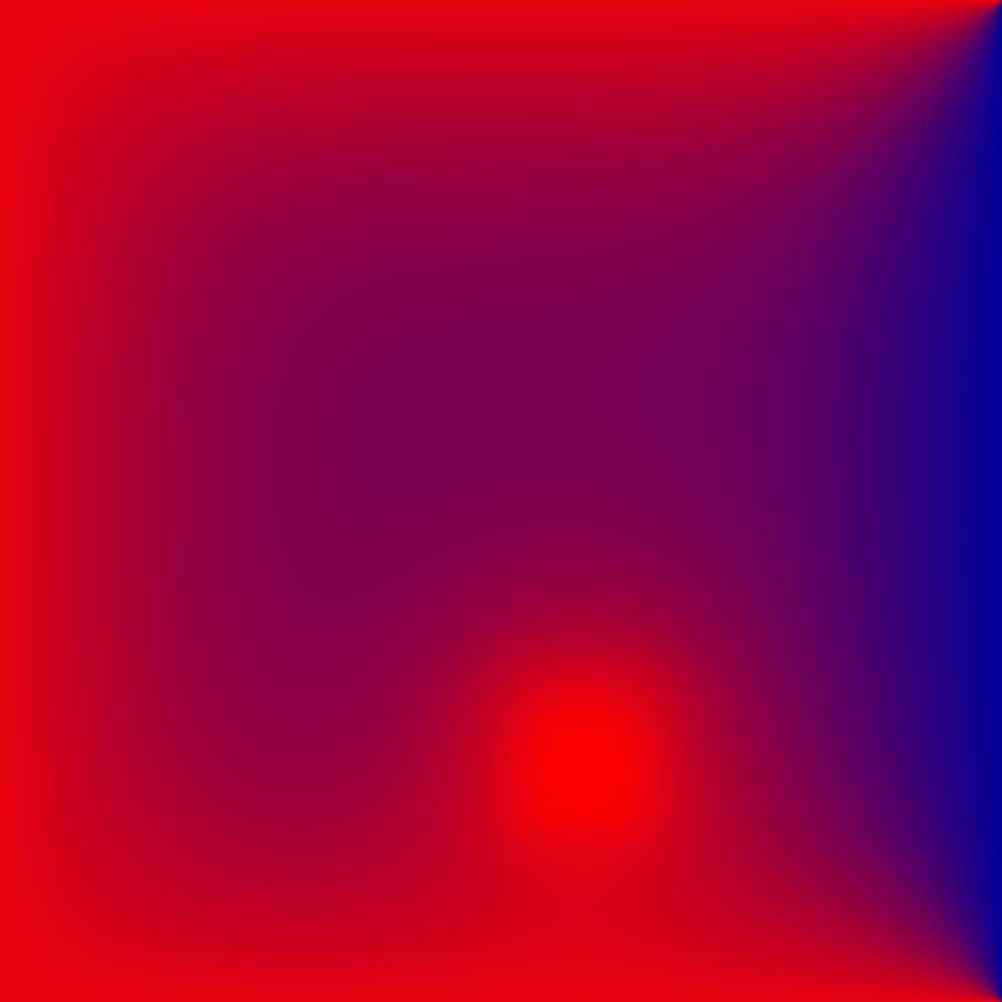
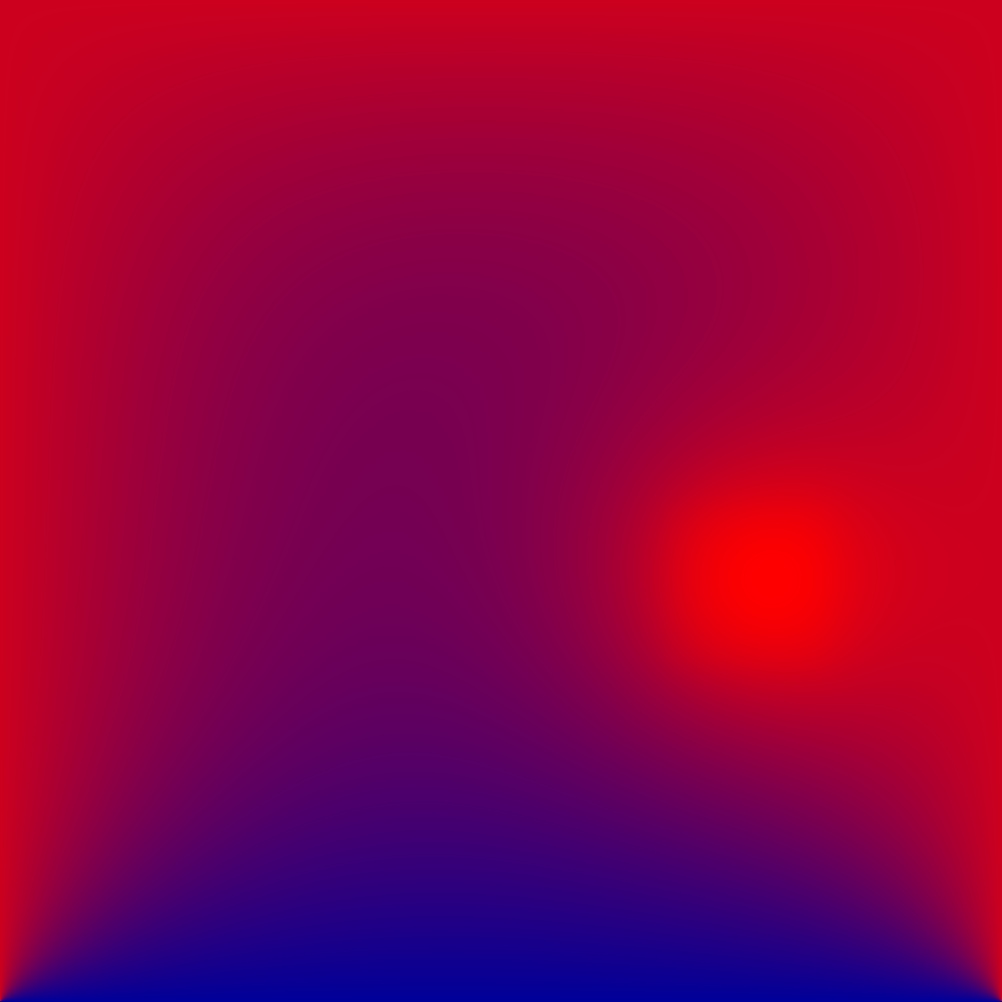
All versions of the Jacobi and Gauss-Seidel methods are working.

diff --git a/poisson_lab/poisson.c b/poisson_lab/poisson.c
@@ -12,7 +12,7 @@ double f(int i, int j, int n, double delta) {
 	double x = (i - n2) * delta;
 	double y = (j - n2) * delta;
 	if ( (x >= 0.0) && (x <= 1.0/3.0) && (y >= -2.0/3.0) && (y <= -1.0/3.0))
-		return 500.0;
+		return 200.0;
 	return 0.0;
 }
 
@@ -80,17 +80,17 @@ void gauss(double* img,double *img_old, int N, int max_iter){
     for(int k = 0; k < max_iter; k++){
 		for(int i = 1; i <= N; i++){
 			for(int j = 1; j <= N; j++){
-/*				img[i*(N+2)+j] = 0.25*(   img[(i-1)*(N+2)+ j   ] \
+				img[i*(N+2)+j] = 0.25*(   img[(i-1)*(N+2)+ j   ] \
 										+ img[(i+1)*(N+2)+ j   ] \
 										+ img[ i   *(N+2)+(j-1)] \
 										+ img[ i   *(N+2)+(j+1)] \
-										+ delat2*f( i, j, N+2, delta ));
-*/
-				img[i*(N+2)+j] = 0.25*(   img[(i-1)*(N+2)+ j   ] \
+										+ delta2*f( i, j, N+2, delta ));
+
+/*				img[i*(N+2)+j] = 0.25*(   img[(i-1)*(N+2)+ j   ] \
 										+ img_old[(i+1)*(N+2)+ j   ] \
 										+ img[ i   *(N+2)+(j-1)] \
 										+ img_old[ i   *(N+2)+(j+1)] \
-										+ delta2*f( i, j, N+2, delta ));
+										+ delta2*f( i, j, N+2, delta ));*/
 				//printf("%.1f ",f(i,j,N+2,delta)*delta2);
 			}
 			//printf("\n");
@@ -136,18 +136,21 @@ void jacobi_mp(double *grid, double *grid_old, int n, int kmax) {
 	return;
 }
 
-inline void do_work(double* img, int delta2, int delta, int N, int i) {
+inline void do_work(double* img, double delta2, double delta, int N, int i) {
     for(int j = 1; j <= N; j++){
 //        img[i*(N+2)+j] = 0.25*(       img[(i-1)*(N+2)+ j ]
   //                                    + img_old[(i+1)*(N+2)+ j ]
     //                                  +     img[ i   *(N+2)+(j-1)]          
       //                                + img_old[ i   *(N+2)+(j+1)]          
         //                              + delta2*f( i, j, N+2, delta ));
+		double fij = f(i,j,N+2,delta);
     		img[i*(N+2)+j] = 0.25*(   img[(i-1)*(N+2)+ j   ]        \
                 + img[(i+1)*(N+2)+ j   ]                                \
                 + img[ i   *(N+2)+(j-1)]                                \
                 + img[ i   *(N+2)+(j+1)]                                \
-                + delta2*f( i, j, N+2, delta ));
+                + delta2*fij);
+		//if(fij>0.0){printf("f: %.1f\n",fij);}
+		//else if(delta == 0.0){printf("delta: %f\n",delta);}
 	}
 }
 
@@ -156,12 +159,14 @@ void gauss_mp(double* img, int N, int max_iter){
 	double delta2 = pow(delta,2);
     int* start;
     int* finish;
-    int grid_size = 0;
+    //int grid_size = 0;
+//printf("%f\n",delta);
+//	getchar();
     
     // TODO Check for corner cases with regards to flags
     // TODO Make threads ordered (or think of other crazy solution)
     
-#pragma omp parallel shared(start, finish, delta, delta2)
+#pragma omp parallel shared(start, finish, delta, delta2,img,N,max_iter)
     {
         
 #pragma omp single
@@ -187,37 +192,37 @@ void gauss_mp(double* img, int N, int max_iter){
         
         for(int k = 1; k <= max_iter; k++){
 
-            printf("%i waiting for first guard on %i'th iteration finish[%i] \n", thread_id, k, finish[thread_id-1]);
+            //printf("%i waiting for first guard on %i'th iteration finish[%i] \n", thread_id, k, finish[thread_id-1]);
             while(finish[thread_id - 1] < k) { // Guard 1
                 #pragma omp flush(finish)
             }
-            printf("%i passed first guard on %i'th iteration\n", thread_id, k);
+            //printf("%i passed first guard on %i'th iteration\n", thread_id, k);
 
 
 #pragma omp for schedule(static) nowait
             for(int i = 1; i <= N; i++) {
 
                 if(i == i_lower) {
-                    do_work(img, delta, delta2, N, i); // TODO Check if this is inlined
+                    do_work(img, delta2, delta, N, i); // TODO Check if this is inlined
                     start[thread_id] = k;
                     #pragma omp flush(start)
                 }
 
                 else if(i == i_upper) {
 
-                    printf("%i waiting on second guard on %i'th iteration start[%i] \n", thread_id, k, start[thread_id+1]);
+                   // printf("%i waiting on second guard on %i'th iteration start[%i] \n", thread_id, k, start[thread_id+1]);
                     while(start[thread_id + 1] < k-1) { // Guard 2
                      #pragma omp flush(start)
                     }
-                    printf("%i passed second guard on %i'th iteration\n", thread_id, k);
+                    //printf("%i passed second guard on %i'th iteration\n", thread_id, k);
 
-                    do_work(img, delta, delta2 ,N, i);
+                    do_work(img, delta2, delta ,N, i);
                     finish[thread_id] = k;
                     #pragma omp flush(finish)
                 }
 
                 else {
-                    do_work(img, delta, delta2, N, i);
+                    do_work(img, delta2, delta, N, i);
                     //printf("%.1f ",f(i,j,N+2,delta)*delta2);
                     }
                 } /* for j */
@@ -244,9 +249,9 @@ void poisson(int n, double *grid, double th, int kmax, int choice) {
 	/* double d = 1.0; */
 	/* while (d > th) { */
 
-    double *tmp = grid_old;
+/*    double *tmp = grid_old;
     grid_old = grid;
-    grid = tmp;		
+    grid = tmp;	*/	
 
     if (choice == 0) {
 //        printf("Poisson calculating. Using the jacobi method.");

diff --git a/poisson_lab/writepng.cc b/poisson_lab/writepng.cc
@@ -33,7 +33,7 @@ writepng(char *filename, double *array, int x, int y) {
 	for(j = 0; j < y; j++) {
 	    c = (maxcolours * (array[i*y + j] * scale));
 	    // plot expects pixel numbers from 1..xmax, 1..ymax!
-	    png1.plot(j+1, i+1, (int) c, 0, (int) (3*(maxcolours-c)/5));
+	    png1.plot(y-j, x-i, (int) c, 0, (int) (3*(maxcolours-c)/5));
 	}
     }
 
